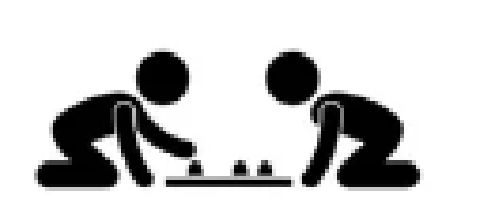
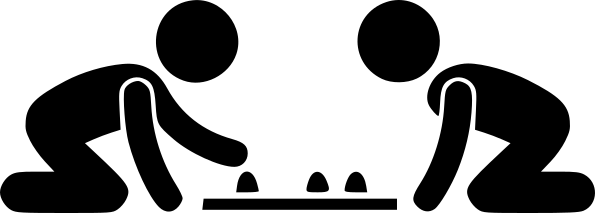
Fix some images...

diff --git a/sept23/lilys_coinrotation.tex b/sept23/lilys_coinrotation.tex
@@ -8,7 +8,7 @@
 \author{Lily Sun (Guest Writer)}
 \date{}
 
-%% \blurb{In 1982, there was a problem on the SAT that was so difficult that none of the test takers were able to correctly solve it. Well, perhaps that's not entirely true, as none of the five choices on the multiple-choice question were correct. The problem came to be known as the Coin Rotation Paradox...}
+%% \blurb{In 1982, there was a problem on the SAT that was so difficult that none of the test takers were able to correctly solve it. The problem came to be known as the Coin Rotation Paradox...}
 
 \begin{document}
 
@@ -18,7 +18,7 @@ In 1982, there was a problem on the SAT that was so difficult that none of the t
 "The radius of circle $A$ is $\frac{1}{3}$ of the radius of circle $B$. Circle $A$ rolls around circle $B$ one trip back to its starting point. How many times will circle $A$ revolve in total?"
 
 \begin{center}
-\includegraphics[scale=0.5]{images/circleAandcircleB.png}
+\includegraphics[width=5in]{images/circleAandcircleB.png}
 \end{center}
 
 It may be tempting to assume that the answer is $3$, as the circumference of circle $A$ is a third of the circumference of circle $B$, thus having to roll three times to cover the distance of the circumference of circle $B$. However, the real answer, $4$, is a bit counter-intuitive.
@@ -26,7 +26,7 @@ It may be tempting to assume that the answer is $3$, as the circumference of cir
 Let's take a step back and think about a simpler version of this problem: rotating a square $A$ of length $1$ around a congruent square, $B$. Take a moment to think about how many revolutions square $A$ will make before completing the rotation around square $B$.
 
 \begin{center}
-\includegraphics[scale=0.5, angle = -0.5]{images/squareAandsquareB.png}
+\includegraphics[width=4in]{images/squareAandsquareB.png}
 \end{center}
 
 For side $A_1$ to match up with $A_2$, square $A$ needs to turn exactly $180^{\circ}$. With two turns, the square has already traveled $360^{\circ}$, or an entire revolution! This means that for a square with side length $1$ to rotate around a congruent square, it will revolve twice ($720^{\circ}$), not once. This means that instead of looking at the distances, we should look at angles. To generalize this finding, what if we had two congruent n-gons? Each time n-gon $A$ rotates, it covers the angle that is explementary to the two interior angles of the n-gons. Let $n$ denote the number of sides in our arbitrary n-gon. This means that the interior angles of our n-gon is $\frac{180(n-2)}{n}$. Each time n-gon $A$ rotates, it will rotate $360 - 2 \cdot \frac{180(n-2)}{n}$ degrees, which can be simplified to $720^{\circ}$. Thus, for each n-gon, it will make two complete revolutions each time it rotates around a congruent n-gon. For our n-gon to be a circle, we have

diff --git a/nov22/samarthd_infinitepowers.tex b/nov22/samarthd_infinitepowers.tex
@@ -1,3 +1,6 @@
+\documentclass{article}
+\usepackage{graphicx}
+
 \title{2022 Summer Reading Challenge: Infinite Powers}
 \author{Samarth Das (Guest Writer)}
 
@@ -11,7 +14,7 @@ unique people who we rely on till date for our technology. The journey from infi
 world is one that has been ignored at large and finally is exemplified in this book.
 
 \begin{center}
-   \includegraphicsp[width=4in]{images/infinity_powers.jpg}
+   \includegraphics[width=4in]{images/infinity_powers.jpg}
 \end{center}
 
 The story starts off with the notion of infinity. It shows that infinity has created many issues in
